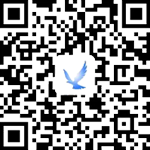
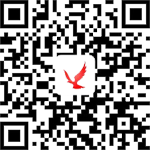
更新开源信息

diff --git a/site/zngg.html b/site/zngg.html
@@ -35,9 +35,11 @@
 				<a href="../index.html"><img src="../images/logo_wuzuniao_com.png" alt="无足鸟LOGO" /></a>
 				<ul>
 					<li>
-						<a href="https://www.wuzuniao.cn" target="_blank">免费视频</a>
+						<a href="https://github.com/wuzuniao" target="_blank">开源</a>
 						<ul class="pc_nav2_ul">
 							<li class="pc_nav2_li">
+								<a href="https://gitee.com/wuzuniao/hong" target="_blank">无足鸟（红）</a>
+								<a href="https://gitee.com/wuzuniao/hei" target="_blank">无足鸟（黑）</a>
 							</li>
 						</ul>
 					</li>
@@ -87,10 +89,13 @@
 				<ul>
 					<li>
 						<div class="m_navList_a">
-							<a href="https://www.wuzuniao.cn">免费视频</a>
+							<a href="https://github.com/wuzuniao" target="_blank">开源</a>
 							<i></i>
 						</div>
-						<div class="m_navList_nav"></div>
+						<div class="m_navList_nav">
+							<a href="https://gitee.com/wuzuniao/hong" target="_blank">无足鸟（红）</a>
+							<a href="https://gitee.com/wuzuniao/hei" target="_blank">无足鸟（黑）</a>
+						</div>
 					</li>
 					<li> 
 						<div class="m_navList_a">
@@ -119,6 +124,14 @@
 		<!--页面主体内容-->
 		<div class="site">
 			<strong>站内公告</strong>
+			<section>
+				<h1>
+					<strong>2025.10.13 20:00</strong>
+				</h1>
+				<p>一、将 无足鸟（黑，wuzuniao.com）、无足鸟（红，wuzuniao.cn） 托管至GitHub、Gitee，代码开源。</p>
+				<p>二、下线 无足鸟（wuzuniao.cn） 网站，关闭服务器，释放wuzuniao.cn域名。</p>
+				<p>三、公众号 无足鸟ICT（wuzuniao_com） 计划于2026年1月1日恢复更新。</p>
+			</section>
 			<section>
 				<h1>
 					<strong>2023.03.11 19:35</strong>
@@ -156,8 +169,8 @@
 		<div class="footer">
 			<div class="footer_erweima">
 				<div>
-					<a href="https://www.wuzuniao.cn" target="_blank">无足鸟（红）</a>
-					<img src="../images/ewm_wuzuniao_cn.png" />
+					<a href="https://github.com/wuzuniao" target="_blank">开源</a>
+					<img src="../images/biaoqingbao.png" />
 				</div>
 				<div>
 					<a href="https://mp.weixin.qq.com/s/EuFKXMXKbXsbDX77Fpyi0Q" target="_blank">微信公众号</a>
@@ -175,6 +188,14 @@
 				<a href="../site/zngg.html">站内公告</a>
 				<a href="../site/mzsm.html">免责声明</a>
 				<a href="http://wpa.qq.com/msgrd?v=3&uin=2546467418&site=qq&menu=yes" target="_blank">联系我们：xpg@wuzuniao.cn</a>
+				<a href="https://github.com/wuzuniao/wuzuniao.github.io" target="_blank" id="github">
+					<img src="../images/github.png" />
+					<span>GitHub</span>
+				</a>
+				<a href="https://gitee.com/wuzuniao/hei" target="_blank">
+					<img src="../images/gitee.png" />
+					<span>Gitee</span>
+				</a>
 			</div>
 			<div class="copyright">
 				<p>
@@ -190,7 +211,7 @@
 		<!-- 手机端页脚 -->
 		<div class="m_footer">
 			<div class="m_footer_erweima">
-				<a href="https://www.wuzuniao.cn" target="_blank">无足鸟（红）</a>
+				<a href="https://github.com/wuzuniao" target="_blank">开源</a>
 				<a href="https://mp.weixin.qq.com/s/EuFKXMXKbXsbDX77Fpyi0Q" target="_blank">微信公众号</a>
 				<a href="https://jq.qq.com/?_wv=1027&k=OyWwUJBI" target="_blank">QQ群</a>
 			</div>
@@ -198,6 +219,8 @@
 				<a href="../site/zngg.html">站内公告</a>
 				<a href="../site/mzsm.html">免责声明</a>
 				<a href="http://wpa.qq.com/msgrd?v=3&uin=2546467418&site=qq&menu=yes" target="_blank">联系我们：xpg@wuzuniao.cn</a>
+				<a href="https://github.com/wuzuniao/wuzuniao.github.io" target="_blank">GitHub</a>
+				<a href="https://gitee.com/wuzuniao/hei" target="_blank">Gitee</a>
 			</div>
 			<div class="m_copyright">
 				<p>

diff --git a/index.html b/index.html
@@ -33,9 +33,11 @@
 				<a href="index.html"><img src="images/logo_wuzuniao_com.png" alt="无足鸟LOGO" /></a>
 				<ul>
 					<li>
-						<a href="https://www.wuzuniao.cn" target="_blank">免费视频</a>
+						<a href="https://github.com/wuzuniao" target="_blank">开源</a>
 						<ul class="pc_nav2_ul">
 							<li class="pc_nav2_li">
+								<a href="https://gitee.com/wuzuniao/hong" target="_blank">无足鸟（红）</a>
+								<a href="https://gitee.com/wuzuniao/hei" target="_blank">无足鸟（黑）</a>
 							</li>
 						</ul>
 					</li>
@@ -85,10 +87,13 @@
 				<ul>
 					<li>
 						<div class="m_navList_a">
-							<a href="https://www.wuzuniao.cn">免费视频</a>
+							<a href="https://github.com/wuzuniao" target="_blank">开源</a>
 							<i></i>
 						</div>
-						<div class="m_navList_nav"></div>
+						<div class="m_navList_nav">
+							<a href="https://gitee.com/wuzuniao/hong" target="_blank">无足鸟（红）</a>
+							<a href="https://gitee.com/wuzuniao/hei" target="_blank">无足鸟（黑）</a>
+						</div>
 					</li>
 					<li> 
 						<div class="m_navList_a">
@@ -147,8 +152,8 @@
 		<div class="footer">
 			<div class="footer_erweima">
 				<div>
-					<a href="https://www.wuzuniao.cn" target="_blank">无足鸟（红）</a>
-					<img src="images/ewm_wuzuniao_cn.png" />
+					<a href="https://github.com/wuzuniao" target="_blank">开源</a>
+					<img src="images/biaoqingbao.png" />
 				</div>
 				<div>
 					<a href="https://mp.weixin.qq.com/s/EuFKXMXKbXsbDX77Fpyi0Q" target="_blank">微信公众号</a>
@@ -165,7 +170,15 @@
 			<div class="footer_ziye">
 				<a href="site/zngg.html">站内公告</a>
 				<a href="site/mzsm.html">免责声明</a>
-				<a href="http://wpa.qq.com/msgrd?v=3&uin=2546467418&site=qq&menu=yes" target="_blank">联系我们：xpg@wuzuniao.cn</a>
+				<a href="http://wpa.qq.com/msgrd?v=3&uin=2546467418&site=qq&menu=yes" target="_blank">联系我们：xpg@wuzuniao.com</a>
+				<a href="https://github.com/wuzuniao/wuzuniao.github.io" target="_blank" id="github">
+					<img src="images/github.png" />
+					<span>GitHub</span>
+				</a>
+				<a href="https://gitee.com/wuzuniao/hei" target="_blank">
+					<img src="images/gitee.png" />
+					<span>Gitee</span>
+				</a>
 			</div>
 			<div class="copyright">
 				<p>
@@ -181,14 +194,16 @@
 		<!-- 手机端页脚 -->
 		<div class="m_footer">
 			<div class="m_footer_erweima">
-				<a href="https://www.wuzuniao.cn" target="_blank">无足鸟（红）</a>
+				<a href="https://github.com/wuzuniao" target="_blank">开源</a>
 				<a href="https://mp.weixin.qq.com/s/EuFKXMXKbXsbDX77Fpyi0Q" target="_blank">微信公众号</a>
 				<a href="https://jq.qq.com/?_wv=1027&k=OyWwUJBI" target="_blank">QQ群</a>
 			</div>
 			<div class="m_footer_ziye">
 				<a href="site/zngg.html">站内公告</a>
 				<a href="site/mzsm.html">免责声明</a>
-				<a href="http://wpa.qq.com/msgrd?v=3&uin=2546467418&site=qq&menu=yes" target="_blank">联系我们：xpg@wuzuniao.cn</a>
+				<a href="http://wpa.qq.com/msgrd?v=3&uin=2546467418&site=qq&menu=yes" target="_blank">联系我们：xpg@wuzuniao.com</a>
+				<a href="https://github.com/wuzuniao/wuzuniao.github.io" target="_blank">GitHub</a>
+				<a href="https://gitee.com/wuzuniao/hei" target="_blank">Gitee</a>
 			</div>
 			<div class="m_copyright">
 				<p>

diff --git a/site/mzsm.html b/site/mzsm.html
@@ -35,9 +35,11 @@
 				<a href="../index.html"><img src="../images/logo_wuzuniao_com.png" alt="无足鸟LOGO" /></a>
 				<ul>
 					<li>
-						<a href="https://www.wuzuniao.cn" target="_blank">免费视频</a>
+						<a href="https://github.com/wuzuniao" target="_blank">开源</a>
 						<ul class="pc_nav2_ul">
 							<li class="pc_nav2_li">
+								<a href="https://gitee.com/wuzuniao/hong" target="_blank">无足鸟（红）</a>
+								<a href="https://gitee.com/wuzuniao/hei" target="_blank">无足鸟（黑）</a>
 							</li>
 						</ul>
 					</li>
@@ -87,10 +89,13 @@
 				<ul>
 					<li>
 						<div class="m_navList_a">
-							<a href="https://www.wuzuniao.cn">免费视频</a>
+							<a href="https://github.com/wuzuniao" target="_blank">开源</a>
 							<i></i>
 						</div>
-						<div class="m_navList_nav"></div>
+						<div class="m_navList_nav">
+							<a href="https://gitee.com/wuzuniao/hong" target="_blank">无足鸟（红）</a>
+							<a href="https://gitee.com/wuzuniao/hei" target="_blank">无足鸟（黑）</a>
+						</div>
 					</li>
 					<li> 
 						<div class="m_navList_a">
@@ -134,8 +139,8 @@
 		<div class="footer">
 			<div class="footer_erweima">
 				<div>
-					<a href="https://www.wuzuniao.cn" target="_blank">无足鸟（红）</a>
-					<img src="../images/ewm_wuzuniao_cn.png" />
+					<a href="https://github.com/wuzuniao" target="_blank">开源</a>
+					<img src="../images/biaoqingbao.png" />
 				</div>
 				<div>
 					<a href="https://mp.weixin.qq.com/s/EuFKXMXKbXsbDX77Fpyi0Q" target="_blank">微信公众号</a>
@@ -153,6 +158,14 @@
 				<a href="../site/zngg.html">站内公告</a>
 				<a href="../site/mzsm.html">免责声明</a>
 				<a href="http://wpa.qq.com/msgrd?v=3&uin=2546467418&site=qq&menu=yes" target="_blank">联系我们：xpg@wuzuniao.cn</a>
+				<a href="https://github.com/wuzuniao/wuzuniao.github.io" target="_blank" id="github">
+					<img src="../images/github.png" />
+					<span>GitHub</span>
+				</a>
+				<a href="https://gitee.com/wuzuniao/hei" target="_blank">
+					<img src="../images/gitee.png" />
+					<span>Gitee</span>
+				</a>
 			</div>
 			<div class="copyright">
 				<p>
@@ -168,7 +181,7 @@
 		<!-- 手机端页脚 -->
 		<div class="m_footer">
 			<div class="m_footer_erweima">
-				<a href="https://www.wuzuniao.cn" target="_blank">无足鸟（红）</a>
+				<a href="https://github.com/wuzuniao" target="_blank">开源</a>
 				<a href="https://mp.weixin.qq.com/s/EuFKXMXKbXsbDX77Fpyi0Q" target="_blank">微信公众号</a>
 				<a href="https://jq.qq.com/?_wv=1027&k=OyWwUJBI" target="_blank">QQ群</a>
 			</div>
@@ -176,6 +189,8 @@
 				<a href="../site/zngg.html">站内公告</a>
 				<a href="../site/mzsm.html">免责声明</a>
 				<a href="http://wpa.qq.com/msgrd?v=3&uin=2546467418&site=qq&menu=yes" target="_blank">联系我们：xpg@wuzuniao.cn</a>
+				<a href="https://github.com/wuzuniao/wuzuniao.github.io" target="_blank">GitHub</a>
+				<a href="https://gitee.com/wuzuniao/hei" target="_blank">Gitee</a>
 			</div>
 			<div class="m_copyright">
 				<p>

diff --git a/style/header_banner_footer.css b/style/header_banner_footer.css
@@ -36,6 +36,8 @@ footer{width:100%; background: #7f7f7f;}
 .footer_ziye{ display: block; border-top:1px solid #969696; border-bottom:1px solid #646464; box-sizing: border-box; }
 .footer_ziye>a{ font-size: 1em; color: #dedede; line-height: 3em; margin-left: 1em;}
 .footer_ziye>a:hover{ color: #c8c8c8; }
+.footer_ziye>a>img{ margin-bottom: 0.9em; }
+#github{ margin-left: 19em; }
 .copyright{ text-align:center; padding-top: 0.75em;padding-bottom: 0.75em; border-top:1px solid #969696; box-sizing: border-box; font-size: 1em;}
 .copyright>p{ line-height: 1.5em; color: #dedede;}
 .copyright>p>a{ color: #dedede; }
